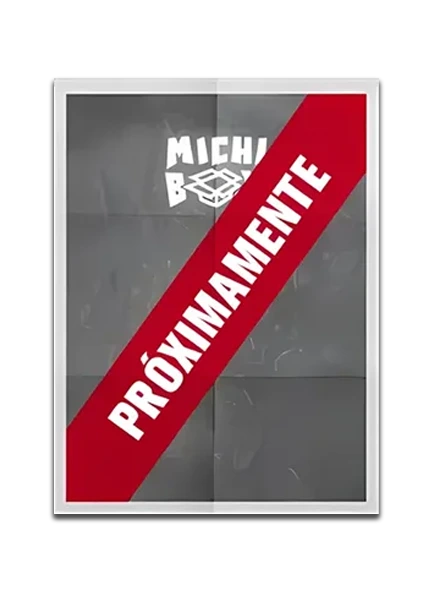
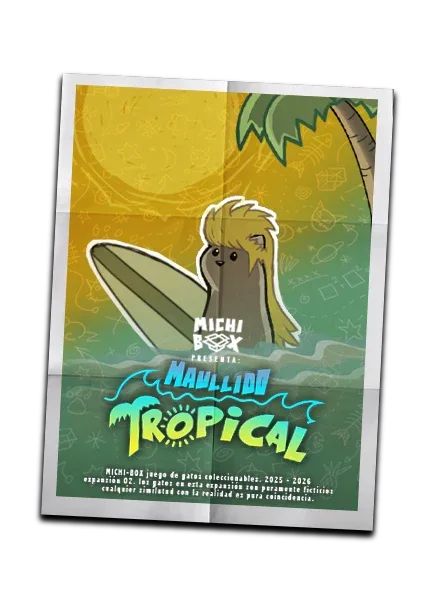
expansiones

diff --git a/galeria.html b/galeria.html
@@ -58,7 +58,9 @@
 <!-----------------------------------------------EXPANSION 001(MICHIBOX)------------------------------------------------------------------->
 
 <div id="MICHIBOX001" data-expansion="1" class="cartasgaleriacontainer">
-  <div class="expansion"  style="background-image: url(./assets/expansion001.webp);"></div>
+    <div class="separacion"></div>
+
+  <div class="expansion"  style="background-image: url(./assets/logoprograma03.webp);"></div>
   <div class="contenedorcolores">
 
     <div class="carta-wrapper" data-pass="MAXDEF" >
@@ -220,76 +222,76 @@
     </div>
 
   </div>
-  <div class="separacion"></div>
+  <div id="MICHIBOX002" class="separacion"></div>
 </div>
 <!--------------------------------------------------------------------------------------------------------------------------------------->
 
 
 
-<!-----------------------------------------------EXPANSION 002(???)------------------------------------------------------------------->
+<!-----------------------------------------------EXPANSION 002 MAULLIDO TROPICAL------------------------------------------------------------------->
 <!--
-<div id="MICHIBOX002" data-expansion="2" class="cartasgaleriacontainer">
-  <div class="expansion"  style="background-image: url(./assets/expansion003.webp);"></div>
+<div  data-expansion="2" class="cartasgaleriacontainer">
+  <div class="expansion"  style="background-image: url(./assets/expansion002_icon.webp);"></div>
   <div class="contenedorcolores">
 
-    <div class="carta-wrapper" data-pass="037" >
-      <button  class="cartaejemplo comun"  data-lazy="true" data-style="background-image: url(./assets/cartas/MINIATURAS/001.webp);" data-target="carousel-item-37"></button>
+    <div class="carta-wrapper" data-pass="" >
+      <button  class="cartaejemplo comun"  data-lazy="true" data-style="background-image: url(./assets/cartas/MINIATURAS/);" data-target="carousel-item-37"></button>
       <div class="overlay-bloqueo overnormal"></div>
     </div>
-    <div class="carta-wrapper" data-pass="038">
-      <button class="cartaejemplo comun"  data-lazy="true" data-style="background-image: url(./assets/cartas/MINIATURAS/002.webp);" data-target="carousel-item-38"></button>
+    <div class="carta-wrapper" data-pass="">
+      <button class="cartaejemplo comun"  data-lazy="true" data-style="background-image: url(./assets/cartas/MINIATURAS/);" data-target="carousel-item-38"></button>
       <div class="overlay-bloqueo overnormal"></div>
     </div>
-    <div class="carta-wrapper" data-pass="039">
-      <button class="cartaejemplo comun"  data-lazy="true" data-style="background-image: url(./assets/cartas/MINIATURAS/003.webp);" data-target="carousel-item-39"></button>
+    <div class="carta-wrapper" data-pass="">
+      <button class="cartaejemplo comun"  data-lazy="true" data-style="background-image: url(./assets/cartas/MINIATURAS/);" data-target="carousel-item-39"></button>
       <div class="overlay-bloqueo overnormal"></div>
     </div>
-    <div class="carta-wrapper" data-pass="040">
-      <button class="cartaejemplo comun"  data-lazy="true" data-style="background-image: url(./assets/cartas/MINIATURAS/004.webp);" data-target="carousel-item-40"></button>
+    <div class="carta-wrapper" data-pass="">
+      <button class="cartaejemplo comun"  data-lazy="true" data-style="background-image: url(./assets/cartas/MINIATURAS/);" data-target="carousel-item-40"></button>
       <div class="overlay-bloqueo overnormal"></div>
     </div>
-    <div class="carta-wrapper" data-pass="041">
-      <button class="cartaejemplo comun"  data-lazy="true" data-style="background-image: url(./assets/cartas/MINIATURAS/005.webp);" data-target="carousel-item-41"></button>
+    <div class="carta-wrapper" data-pass="">
+      <button class="cartaejemplo comun"  data-lazy="true" data-style="background-image: url(./assets/cartas/MINIATURAS/);" data-target="carousel-item-41"></button>
       <div class="overlay-bloqueo overnormal"></div>
     </div>
-    <div class="carta-wrapper" data-pass="042">
+    <div class="carta-wrapper" data-pass="">
       <button class="cartaejemplo comun"  data-lazy="true" data-style="background-image: url(./assets/cartas/);" data-target="carousel-item-42"></button>
       <div class="overlay-bloqueo overnormal"></div>
     </div>
-    <div class="carta-wrapper" data-pass="043">
+    <div class="carta-wrapper" data-pass="">
       <button class="cartaejemplo comun"  data-lazy="true" data-style="background-image: url(./assets/cartas/);" data-target="carousel-item-43"></button>
       <div class="overlay-bloqueo overnormal"></div>
     </div>
-    <div class="carta-wrapper" data-pass="044">
-      <button class="cartaejemplo comun"  data-lazy="true" data-style="background-image: url(./assets/cartas/MINIATURAS/008.webp);" data-target="carousel-item-44"></button>
+    <div class="carta-wrapper" data-pass="">
+      <button class="cartaejemplo comun"  data-lazy="true" data-style="background-image: url(./assets/cartas/MINIATURAS/);" data-target="carousel-item-44"></button>
       <div class="overlay-bloqueo overnormal"></div>
     </div>
-    <div class="carta-wrapper" data-pass="045">
-      <button class="cartaejemplo comun"  data-lazy="true" data-style="background-image: url(./assets/cartas/MINIATURAS/009.webp);" data-target="carousel-item-45"></button>
+    <div class="carta-wrapper" data-pass="">
+      <button class="cartaejemplo comun"  data-lazy="true" data-style="background-image: url(./assets/cartas/MINIATURAS/);" data-target="carousel-item-45"></button>
       <div class="overlay-bloqueo overnormal"></div>
     </div>
-    <div class="carta-wrapper" data-pass="046">
-      <button class="cartaejemplo comun"  data-lazy="true" data-style="background-image: url(./assets/cartas/MINIATURAS/010.webp);" data-target="carousel-item-46"></button>
+    <div class="carta-wrapper" data-pass="">
+      <button class="cartaejemplo comun"  data-lazy="true" data-style="background-image: url(./assets/cartas/MINIATURAS/);" data-target="carousel-item-46"></button>
       <div class="overlay-bloqueo overnormal"></div>
     </div>
-        <div class="carta-wrapper" data-pass="047">
-      <button class="cartaejemplo comun"  data-lazy="true" data-style="background-image: url(./assets/cartas/MINIATURAS/008.webp);" data-target="carousel-item-47"></button>
+        <div class="carta-wrapper" data-pass="">
+      <button class="cartaejemplo comun"  data-lazy="true" data-style="background-image: url(./assets/cartas/MINIATURAS/);" data-target="carousel-item-47"></button>
       <div class="overlay-bloqueo overnormal"></div>
     </div>
-    <div class="carta-wrapper" data-pass="048">
-      <button class="cartaejemplo comun"  data-lazy="true" data-style="background-image: url(./assets/cartas/MINIATURAS/009.webp);" data-target="carousel-item-48"></button>
+    <div class="carta-wrapper" data-pass="">
+      <button class="cartaejemplo comun"  data-lazy="true" data-style="background-image: url(./assets/cartas/MINIATURAS/);" data-target="carousel-item-48"></button>
       <div class="overlay-bloqueo overnormal"></div>
     </div>
-    <div class="carta-wrapper" data-pass="049">
-      <button class="cartaejemplo comun"  data-lazy="true" data-style="background-image: url(./assets/cartas/MINIATURAS/010.webp);" data-target="carousel-item-49"></button>
+    <div class="carta-wrapper" data-pass="">
+      <button class="cartaejemplo comun"  data-lazy="true" data-style="background-image: url(./assets/cartas/MINIATURAS/);" data-target="carousel-item-49"></button>
       <div class="overlay-bloqueo overnormal"></div>
     </div>
-        <div class="carta-wrapper" data-pass="050">
-      <button class="cartaejemplo comun"  data-lazy="true" data-style="background-image: url(./assets/cartas/MINIATURAS/009.webp);" data-target="carousel-item-50"></button>
+        <div class="carta-wrapper" data-pass="">
+      <button class="cartaejemplo comun"  data-lazy="true" data-style="background-image: url(./assets/cartas/MINIATURAS/);" data-target="carousel-item-50"></button>
       <div class="overlay-bloqueo overnormal"></div>
     </div>
-    <div class="carta-wrapper" data-pass="051">
-      <button class="cartaejemplo comun"  data-lazy="true" data-style="background-image: url(./assets/cartas/MINIATURAS/010.webp);" data-target="carousel-item-51"></button>
+    <div class="carta-wrapper" data-pass="">
+      <button class="cartaejemplo comun"  data-lazy="true" data-style="background-image: url(./assets/cartas/MINIATURAS/);" data-target="carousel-item-51"></button>
       <div class="overlay-bloqueo overnormal"></div>
     </div>
 
@@ -298,40 +300,40 @@
 
   <div class="contenedorcolores" >
 
-    <div class="carta-wrapper" data-pass="052">
-      <button class="cartaejemplo plata"  data-lazy="true" data-style="background-image: url(./assets/cartas/MINIATURAS/019.webp);" data-target="carousel-item-52"></button>
+    <div class="carta-wrapper" data-pass="">
+      <button class="cartaejemplo plata"  data-lazy="true" data-style="background-image: url(./assets/cartas/MINIATURAS/);" data-target="carousel-item-52"></button>
       <div class="overlay-bloqueo overraro"></div>
     </div>
-    <div class="carta-wrapper" data-pass="053">
-      <button class="cartaejemplo plata"  data-lazy="true" data-style="background-image: url(./assets/cartas/MINIATURAS/020.webp);" data-target="carousel-item-53"></button>
+    <div class="carta-wrapper" data-pass="">
+      <button class="cartaejemplo plata"  data-lazy="true" data-style="background-image: url(./assets/cartas/MINIATURAS/);" data-target="carousel-item-53"></button>
       <div class="overlay-bloqueo overraro"></div>
     </div>
-    <div class="carta-wrapper" data-pass="054">
-      <button class="cartaejemplo plata" data-lazy="true"  data-style="background-image: url(./assets/cartas/MINIATURAS/021.webp);" data-target="carousel-item-54"></button>
+    <div class="carta-wrapper" data-pass="">
+      <button class="cartaejemplo plata" data-lazy="true"  data-style="background-image: url(./assets/cartas/MINIATURAS/);" data-target="carousel-item-54"></button>
       <div class="overlay-bloqueo overraro"></div>
     </div>
-    <div class="carta-wrapper" data-pass="055">
-      <button class="cartaejemplo plata"  data-lazy="true" data-style="background-image: url(./assets/cartas/MINIATURAS/022.webp);" data-target="carousel-item-55"></button>
+    <div class="carta-wrapper" data-pass="">
+      <button class="cartaejemplo plata"  data-lazy="true" data-style="background-image: url(./assets/cartas/MINIATURAS/);" data-target="carousel-item-55"></button>
       <div class="overlay-bloqueo overraro"></div>
     </div>
-    <div class="carta-wrapper" data-pass="056">
-      <button class="cartaejemplo plata"  data-lazy="true" data-style="background-image: url(./assets/cartas/MINIATURAS/023.webp);" data-target="carousel-item-56"></button>
+    <div class="carta-wrapper" data-pass="">
+      <button class="cartaejemplo plata"  data-lazy="true" data-style="background-image: url(./assets/cartas/MINIATURAS/);" data-target="carousel-item-56"></button>
       <div class="overlay-bloqueo overraro"></div>
     </div>
-    <div class="carta-wrapper" data-pass="057">
-      <button class="cartaejemplo plata"  data-lazy="true" data-style="background-image: url(./assets/cartas/MINIATURAS/024.webp);" data-target="carousel-item-57"></button>
+    <div class="carta-wrapper" data-pass="">
+      <button class="cartaejemplo plata"  data-lazy="true" data-style="background-image: url(./assets/cartas/MINIATURAS/);" data-target="carousel-item-57"></button>
       <div class="overlay-bloqueo overraro"></div>
     </div>
-        <div class="carta-wrapper" data-pass="058">
-      <button class="cartaejemplo plata"  data-lazy="true" data-style="background-image: url(./assets/cartas/MINIATURAS/022.webp);" data-target="carousel-item-58"></button>
+        <div class="carta-wrapper" data-pass="">
+      <button class="cartaejemplo plata"  data-lazy="true" data-style="background-image: url(./assets/cartas/MINIATURAS/);" data-target="carousel-item-58"></button>
       <div class="overlay-bloqueo overraro"></div>
     </div>
-    <div class="carta-wrapper" data-pass="059">
-      <button class="cartaejemplo plata"  data-lazy="true" data-style="background-image: url(./assets/cartas/MINIATURAS/023.webp);" data-target="carousel-item-59"></button>
+    <div class="carta-wrapper" data-pass="">
+      <button class="cartaejemplo plata"  data-lazy="true" data-style="background-image: url(./assets/cartas/MINIATURAS/);" data-target="carousel-item-59"></button>
       <div class="overlay-bloqueo overraro"></div>
     </div>
-    <div class="carta-wrapper" data-pass="060">
-      <button class="cartaejemplo plata"  data-lazy="true" data-style="background-image: url(./assets/cartas/MINIATURAS/024.webp);" data-target="carousel-item-60"></button>
+    <div class="carta-wrapper" data-pass="">
+      <button class="cartaejemplo plata"  data-lazy="true" data-style="background-image: url(./assets/cartas/MINIATURAS/);" data-target="carousel-item-60"></button>
       <div class="overlay-bloqueo overraro"></div>
     </div>
 
@@ -340,31 +342,154 @@
 
   <div class="contenedorcolores">
 
-    <div class="carta-wrapper" data-requiere-cantidad="10" data-pass="061">
+    <div class="carta-wrapper" data-requiere-cantidad="10" data-pass="">
       <button class="cartaejemplo oro"   data-lazy="true" data-style="background-image: url(./assets/cartas/);" data-target="carousel-item-61"></button>
-      <div class="overlay-bloqueo overespecial"  data-cartel="<p> <b>CONSIGUE 3 CARTAS</b> <br> para desbloquear esta carta. </p>"> </div>
+      <div class="overlay-bloqueo overespecial"  data-cartel="<p> CONSIGUE 10 CARTAS DE <b> MAULLIDO TROPICAL</b> <br> para desbloquear esta carta. </p>"> </div>
     </div>
-    <div class="carta-wrapper" data-requiere-rareza="normal" data-pass="062">
-      <button class="cartaejemplo oro"   data-lazy="true" data-style="background-image: url(./assets/cartas/MINIATURAS/032.webp);" data-target="carousel-item-62"></button>
-      <div class="overlay-bloqueo overespecial" data-cartel="<p> <b>CONSIGUE TODAS LAS CARTAS NORMALES DE ??? </b> <br> para desbloquear esta carta. </p>"></div>
+    <div class="carta-wrapper" data-requiere-rareza="normal" data-pass="">
+      <button class="cartaejemplo oro"   data-lazy="true" data-style="background-image: url(./assets/cartas/MINIATURAS/);" data-target="carousel-item-62"></button>
+      <div class="overlay-bloqueo overespecial" data-cartel="<p> CONSIGUE TODAS LAS CARTAS NORMALES DE <b> MAULLIDO TROPICAL </b> <br> para desbloquear esta carta. </p>"></div>
     </div>
-    <div class="carta-wrapper" data-requiere-rareza="raro" data-pass="063">
+    <div class="carta-wrapper" data-requiere-rareza="raro" data-pass="">
       <button class="cartaejemplo oro"   data-lazy="true" data-style="background-image: url(./assets/cartas/);" data-target="carousel-item-63"></button>
-      <div class="overlay-bloqueo overespecial"  data-cartel="<p> <b>CONSIGUE TODAS LAS CARTAS RARAS DE ??? </b> <br> para desbloquear esta carta. </p>"></div>
+      <div class="overlay-bloqueo overespecial"  data-cartel="<p>CONSIGUE TODAS LAS CARTAS RARAS DE <b> MAULLIDO TROPICAL </b> <br> para desbloquear esta carta. </p>"></div>
     </div>
-    <div class="carta-wrapper" data-pass="064">
-      <button class="cartaejemplo oro"   data-lazy="true" data-style="background-image: url(./assets/cartas/MINIATURAS/034.webp);" data-target="carousel-item-64"></button>
+    <div class="carta-wrapper" data-pass="">
+      <button class="cartaejemplo oro"   data-lazy="true" data-style="background-image: url(./assets/cartas/MINIATURAS/);" data-target="carousel-item-64"></button>
       <div class="overlay-bloqueo overespecial" data-requiere='["050","051","052"]' data-cartel="<p> Necesitas a: <br> <b>●???</b> <br> <b>●???</b> <br> <b>●???</b> <br> para desbloquear esta carta. </p>"  ></div>
     </div>
-    <div class="carta-wrapper" data-pass="065">
-      <button class="cartaejemplo oro"   data-lazy="true" data-style="background-image: url(./assets/cartas/MINIATURAS/034.webp);" data-target="carousel-item-65"></button>
+    <div class="carta-wrapper" data-pass="">
+      <button class="cartaejemplo oro"   data-lazy="true" data-style="background-image: url(./assets/cartas/MINIATURAS/);" data-target="carousel-item-65"></button>
       <div class="overlay-bloqueo overespecial" data-requiere='["053","054","055"]' data-cartel="<p> Necesitas a: <br> <b>●???</b> <br> <b>●???</b> <br> <b>●???</b> <br> para desbloquear esta carta. </p>"  ></div>
     </div>
 
   </div>
-  <div class="separacion"></div>
+  <div id="MICHIBOX003" class="separacion"></div>
 </div>-->
 <!--------------------------------------------------------------------------------------------------------------------------------------->
+
+<!-----------------------------------------------EXPANSION 003 INVASIÓN FELINA------------------------------------------------------------------->
+<!--
+<div  data-expansion="3" class="cartasgaleriacontainer">
+  <div class="expansion"  style="background-image: url(./assets/expansion003_icon.webp);"></div>
+  <div class="contenedorcolores">
+
+    <div class="carta-wrapper" data-pass="" >
+      <button  class="cartaejemplo comun"  data-lazy="true" data-style="background-image: url(./assets/cartas/MINIATURAS/);" data-target="carousel-item-66"></button>
+      <div class="overlay-bloqueo overnormal"></div>
+    </div>
+    <div class="carta-wrapper" data-pass="">
+      <button class="cartaejemplo comun"  data-lazy="true" data-style="background-image: url(./assets/cartas/MINIATURAS/);" data-target="carousel-item-67"></button>
+      <div class="overlay-bloqueo overnormal"></div>
+    </div>
+    <div class="carta-wrapper" data-pass="">
+      <button class="cartaejemplo comun"  data-lazy="true" data-style="background-image: url(./assets/cartas/MINIATURAS/);" data-target="carousel-item-68"></button>
+      <div class="overlay-bloqueo overnormal"></div>
+    </div>
+    <div class="carta-wrapper" data-pass="">
+      <button class="cartaejemplo comun"  data-lazy="true" data-style="background-image: url(./assets/cartas/MINIATURAS/);" data-target="carousel-item-69"></button>
+      <div class="overlay-bloqueo overnormal"></div>
+    </div>
+    <div class="carta-wrapper" data-pass="">
+      <button class="cartaejemplo comun"  data-lazy="true" data-style="background-image: url(./assets/cartas/MINIATURAS/);" data-target="carousel-item-70"></button>
+      <div class="overlay-bloqueo overnormal"></div>
+    </div>
+    <div class="carta-wrapper" data-pass="">
+      <button class="cartaejemplo comun"  data-lazy="true" data-style="background-image: url(./assets/cartas/);" data-target="carousel-item-71"></button>
+      <div class="overlay-bloqueo overnormal"></div>
+    </div>
+    <div class="carta-wrapper" data-pass="">
+      <button class="cartaejemplo comun"  data-lazy="true" data-style="background-image: url(./assets/cartas/);" data-target="carousel-item-72"></button>
+      <div class="overlay-bloqueo overnormal"></div>
+    </div>
+    <div class="carta-wrapper" data-pass="">
+      <button class="cartaejemplo comun"  data-lazy="true" data-style="background-image: url(./assets/cartas/MINIATURAS/);" data-target="carousel-item-73"></button>
+      <div class="overlay-bloqueo overnormal"></div>
+    </div>
+    <div class="carta-wrapper" data-pass="">
+      <button class="cartaejemplo comun"  data-lazy="true" data-style="background-image: url(./assets/cartas/MINIATURAS/);" data-target="carousel-item-74"></button>
+      <div class="overlay-bloqueo overnormal"></div>
+    </div>
+    <div class="carta-wrapper" data-pass="">
+      <button class="cartaejemplo comun"  data-lazy="true" data-style="background-image: url(./assets/cartas/MINIATURAS/);" data-target="carousel-item-75"></button>
+      <div class="overlay-bloqueo overnormal"></div>
+    </div>
+        <div class="carta-wrapper" data-pass="">
+      <button class="cartaejemplo comun"  data-lazy="true" data-style="background-image: url(./assets/cartas/MINIATURAS/);" data-target="carousel-item-76"></button>
+      <div class="overlay-bloqueo overnormal"></div>
+    </div>
+    <div class="carta-wrapper" data-pass="">
+      <button class="cartaejemplo comun"  data-lazy="true" data-style="background-image: url(./assets/cartas/MINIATURAS/);" data-target="carousel-item-77"></button>
+      <div class="overlay-bloqueo overnormal"></div>
+    </div>
+
+
+  </div>
+
+
+  <div class="contenedorcolores" >
+
+    <div class="carta-wrapper" data-pass="">
+      <button class="cartaejemplo plata"  data-lazy="true" data-style="background-image: url(./assets/cartas/MINIATURAS/);" data-target="carousel-item-78"></button>
+      <div class="overlay-bloqueo overraro"></div>
+    </div>
+    <div class="carta-wrapper" data-pass="">
+      <button class="cartaejemplo plata"  data-lazy="true" data-style="background-image: url(./assets/cartas/MINIATURAS/);" data-target="carousel-item-79"></button>
+      <div class="overlay-bloqueo overraro"></div>
+    </div>
+    <div class="carta-wrapper" data-pass="">
+      <button class="cartaejemplo plata" data-lazy="true"  data-style="background-image: url(./assets/cartas/MINIATURAS/);" data-target="carousel-item-80"></button>
+      <div class="overlay-bloqueo overraro"></div>
+    </div>
+    <div class="carta-wrapper" data-pass="">
+      <button class="cartaejemplo plata"  data-lazy="true" data-style="background-image: url(./assets/cartas/MINIATURAS/);" data-target="carousel-item-81"></button>
+      <div class="overlay-bloqueo overraro"></div>
+    </div>
+    <div class="carta-wrapper" data-pass="">
+      <button class="cartaejemplo plata"  data-lazy="true" data-style="background-image: url(./assets/cartas/MINIATURAS/);" data-target="carousel-item-82"></button>
+      <div class="overlay-bloqueo overraro"></div>
+    </div>
+    <div class="carta-wrapper" data-pass="">
+      <button class="cartaejemplo plata"  data-lazy="true" data-style="background-image: url(./assets/cartas/MINIATURAS/);" data-target="carousel-item-83"></button>
+      <div class="overlay-bloqueo overraro"></div>
+    </div>
+        <div class="carta-wrapper" data-pass="">
+      <button class="cartaejemplo plata"  data-lazy="true" data-style="background-image: url(./assets/cartas/MINIATURAS/);" data-target="carousel-item-84"></button>
+      <div class="overlay-bloqueo overraro"></div>
+    </div>
+    <div class="carta-wrapper" data-pass="">
+      <button class="cartaejemplo plata"  data-lazy="true" data-style="background-image: url(./assets/cartas/MINIATURAS/);" data-target="carousel-item-85"></button>
+      <div class="overlay-bloqueo overraro"></div>
+    </div>
+    <div class="carta-wrapper" data-pass="">
+      <button class="cartaejemplo plata"  data-lazy="true" data-style="background-image: url(./assets/cartas/MINIATURAS/);" data-target="carousel-item-86"></button>
+      <div class="overlay-bloqueo overraro"></div>
+    </div>
+
+  </div>
+
+
+  <div class="contenedorcolores">
+
+    <div class="carta-wrapper" data-requiere-cantidad="21" data-pass="">
+      <button class="cartaejemplo oro"   data-lazy="true" data-style="background-image: url(./assets/cartas/);" data-target="carousel-item-87"></button>
+      <div class="overlay-bloqueo overespecial"  data-cartel="<p> CONSIGUE TODAS LAS CARTAS DE <b> INVASIÓN FELINA</b> <br> para desbloquear esta carta. </p>"> </div>
+    </div>
+    <div class="carta-wrapper" data-requiere-rareza="normal" data-pass="">
+      <button class="cartaejemplo oro"   data-lazy="true" data-style="background-image: url(./assets/cartas/);" data-target="carousel-item-88"></button>
+      <div class="overlay-bloqueo overespecial" data-cartel="<p> CONSIGUE TODAS LAS CARTAS NORMALES DE <b> INVASIÓN FELINA </b> <br> para desbloquear esta carta. </p>"></div>
+    </div>
+    <div class="carta-wrapper" data-requiere-rareza="raro" data-pass="">
+      <button class="cartaejemplo oro"   data-lazy="true" data-style="background-image: url(./assets/cartas/);" data-target="carousel-item-89"></button>
+      <div class="overlay-bloqueo overespecial"  data-cartel="<p>CONSIGUE TODAS LAS CARTAS RARAS DE <b> INVASIÓN FELINA </b> <br> para desbloquear esta carta. </p>"></div>
+    </div>
+
+
+  </div>
+  <div  class="separacion"></div>
+</div>-->
+<!--------------------------------------------------------------------------------------------------------------------------------------->
+
 
 
 
@@ -1025,8 +1150,8 @@
         <button class="carruseldeexpansiones-btn prev" onclick="moverCarruseldeExpansiones(-1)">‹</button>
         <div class="carruseldeexpansiones">
           <a href="#MICHIBOX001" onclick="cerrarVentanaExpansiones()" data-lazy="true"  class="carruseldeexpansiones-item lazy-michi" style="background-image: url(./assets/expansion001.webp);"> <p>MICHI-BOX</p> </a>
-          <div href="#MICHIBOX002" data-lazy="true"  class="carruseldeexpansiones-item lazy-michi" style="background-image: url(./assets/expansion003.webp); filter: grayscale(1);"> <p> (PRÓXIMAMENTE) </p> </div>
-          <div href="#MICHIBOX003" data-lazy="true"  class="carruseldeexpansiones-item lazy-michi" style="background-image: url(./assets/expansion004.webp); filter: grayscale(1);"> <p>(PRÓXIMAMENTE)</p> </div>
+          <a href="#MICHIBOX002" onclick="cerrarVentanaExpansiones()" data-lazy="true"  class="carruseldeexpansiones-item lazy-michi" style="background-image: url(./assets/expansion002.webp); filter: grayscale(1);"> <p> (PRÓXIMAMENTE) </p> </a>
+          <a href="#MICHIBOX003" onclick="cerrarVentanaExpansiones()"  data-lazy="true"  class="carruseldeexpansiones-item lazy-michi" style="background-image: url(./assets/expansion003.webp); filter: grayscale(1);"> <p>(PRÓXIMAMENTE)</p> </a>
         </div>
     <button class="carruseldeexpansiones-btn next" onclick="moverCarruseldeExpansiones(1)">›</button>
       </div>

diff --git a/style/style.css b/style/style.css
@@ -451,7 +451,7 @@ transition: 0.3s ease;
   }
   
   .cartasgaleriacontainer{
-    gap: 50px;
+    gap: 40px;
     justify-content: center;
     align-items: center;
     width: 100%;
@@ -1124,10 +1124,10 @@ display: none;
 }
 
 .expansion{
+  transform: translateY(40px);
   pointer-events: none;
-transform: translateY(70px);
   width: 100%;
-  height: 400px;
+  height: 180px;
   position: relative;
   background-size: contain;
   background-position: center;
